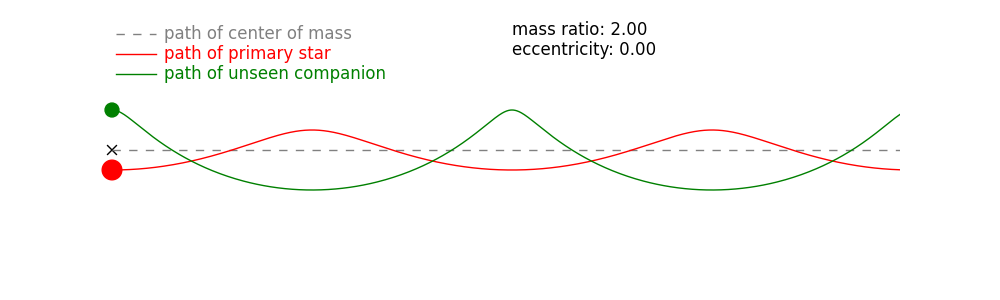
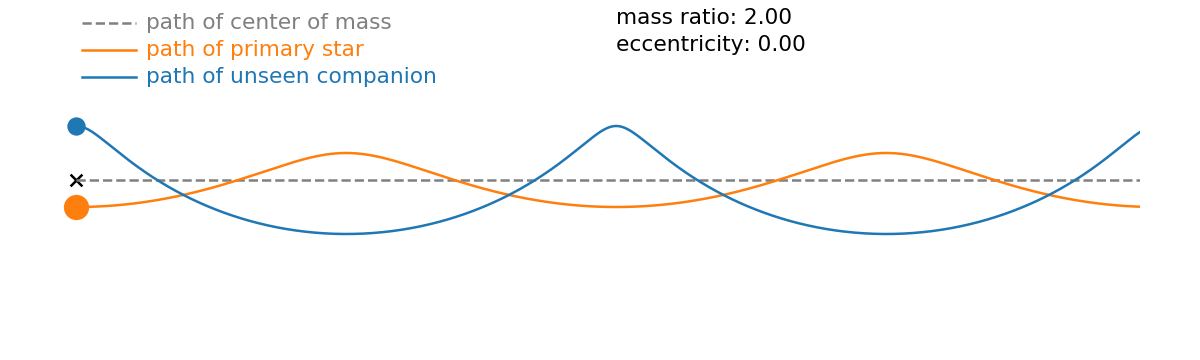
update style

diff --git a/binary_exoplanets/astrometric_binary/astrometric_binary.py b/binary_exoplanets/astrometric_binary/astrometric_binary.py
@@ -1,4 +1,5 @@
-import math
+#!/bin/env python3
+
 import numpy as np
 import matplotlib.pyplot as plt
 
@@ -6,13 +7,13 @@ import anim_solvers.binary_integrator as bi
 
 # compute the orbits of stars in a binary system.
 #
-# Here we put the center of mass at the origin.  
+# Here we put the center of mass at the origin.
 #
 # This version allows for elliptical orbits with some arbitrary
 # orientation wrt to the observer (although, still face-on)
 #
 # The plotting assumes that M_2 < M_1
-#  
+#
 # M. Zingale (2009-02-12)
 
 # we work in CGS units
@@ -31,26 +32,27 @@ def astrometric_binary():
     # set the semi-major axis of the star 2 (and derive that of star 1)
     # M_star2 a_star2 = -M_star1 a_star1 (center of mass)
     a_star2 = 1.0*AU
-    a_star1 = (M_star2/M_star1)*a_star2  
+    a_star1 = (M_star2/M_star1)*a_star2
 
     # set the eccentricity
     ecc = 0.0
 
     # set the angle to rotate the semi-major axis wrt the observer
-    theta = math.pi/2.0
+    theta = np.pi/2.0
 
     b = bi.Binary(M_star1, M_star2, a_star1+a_star2, ecc, theta)
 
     # velocity of the center of mass
     v = 10*a_star2/b.P
 
-    
+
     # set the timestep in terms of the orbital period
-    dt = b.P/360.0        
+    dt = b.P/360.0
     tmax = 2.0*b.P  # maximum integration time
 
-    s1, s2 = b.integrate(dt, tmax)
-
+    b.integrate(dt, tmax)
+    s1 = b.orbit1
+    s2 = b.orbit2
 
     # now move the center of mass according to the velocity defined
     # above, and update the positions
@@ -70,57 +72,53 @@ def astrometric_binary():
     # plotting
     # ================================================================
 
-    plt.clf()
+    fig = plt.figure(1)
+    fig.clear()
 
-    plt.subplots_adjust(left=0.1,right=0.9,bottom=0.1,top=0.9)
+    plt.subplots_adjust(left=0.05, right=0.95, bottom=0.05, top=0.95)
 
-    a = plt.gca()
-    a.set_aspect("equal", "datalim")
-    plt.axis("off")
+    ax = fig.add_subplot(111)
+    ax.set_aspect("equal", "datalim")
+    ax.set_axis_off()
 
     # plot the center of mass motion
-    plt.scatter([0], [0], s=50, marker="x", color="k")
-    plt.plot(x_cm, y_cm, color="0.5", linestyle="--")
+    ax.scatter([0], [0], s=50, marker="x", color="k")
+    ax.plot(x_cm, y_cm, color="0.5", linestyle="--")
 
     # plot star 1's orbit and position
-    plt.plot(s1.x, s1.y, color="r")
-    plt.scatter([s1.x[0]],[s1.y[0]], s=200, color="r")
+    ax.plot(s1.x, s1.y, color="C1")
+    ax.scatter([s1.x[0]],[s1.y[0]], s=200, color="C1")
 
     # plot star 2's orbit and position
-    plt.plot(s2.x, s2.y, color="g")
-    plt.scatter([s2.x[0]], [s2.y[0]], s=100, color="g")
-        
-    plt.text(10*a_star2, 3*a_star2, "mass ratio: %3.2f" % (b.M1/b.M2), 
-             color="k", verticalalignment="center")
-    plt.text(10*a_star2, 2.5*a_star2, "eccentricity: %3.2f" % (ecc), 
-             color="k", verticalalignment="center")
+    ax.plot(s2.x, s2.y, color="C0")
+    ax.scatter([s2.x[0]], [s2.y[0]], s=100, color="C0")
+
+    ax.text(10*a_star2, 3*a_star2, "mass ratio: %3.2f" % (b.M1/b.M2),
+            color="k", verticalalignment="center")
+    ax.text(10*a_star2, 2.5*a_star2, "eccentricity: %3.2f" % (ecc),
+            color="k", verticalalignment="center")
 
     # labels
-    plt.plot([0.1*a_star2,1.1*a_star2], [2.9*a_star2,2.9*a_star2], 
-             color="0.5", linestyle="--")
-    plt.text(1.3*a_star2, 2.9*a_star2, "path of center of mass",
-             verticalalignment="center", color="0.5")
+    ax.plot([0.1*a_star2,1.1*a_star2], [2.9*a_star2,2.9*a_star2],
+            color="0.5", linestyle="--")
+    ax.text(1.3*a_star2, 2.9*a_star2, "path of center of mass",
+            verticalalignment="center", color="0.5")
 
-    plt.plot([0.1*a_star2,1.1*a_star2], [2.4*a_star2,2.4*a_star2], color="r")
-    plt.text(1.3*a_star2, 2.4*a_star2, "path of primary star",
-             verticalalignment="center", color="r")
+    ax.plot([0.1*a_star2,1.1*a_star2], [2.4*a_star2,2.4*a_star2], color="C1")
+    ax.text(1.3*a_star2, 2.4*a_star2, "path of primary star",
+            verticalalignment="center", color="C1")
 
-    plt.plot([0.1*a_star2,1.1*a_star2],[1.9*a_star2,1.9*a_star2], color="g")
-    plt.text(1.3*a_star2, 1.9*a_star2, "path of unseen companion",
-             verticalalignment="center", color="g")
+    ax.plot([0.1*a_star2,1.1*a_star2],[1.9*a_star2,1.9*a_star2], color="C0")
+    ax.text(1.3*a_star2, 1.9*a_star2, "path of unseen companion",
+            verticalalignment="center", color="C0")
 
-    plt.axis([-0.3*a_star2, 19.7*a_star2, 
-              -3*a_star2, 3*a_star2])
+    ax.set_xlim(-0.3*a_star2, 19.7*a_star2)
+    ax.set_ylim(-3*a_star2, 3*a_star2)
 
-    f = plt.gcf()
-    f.set_size_inches(10.0,3.0)
-  
+    fig.set_size_inches(10.0,3.0)
+
     plt.savefig("astrometric_binary.png")
 
-    
+
 if __name__== "__main__":
     astrometric_binary()
-
-
-    
-        
